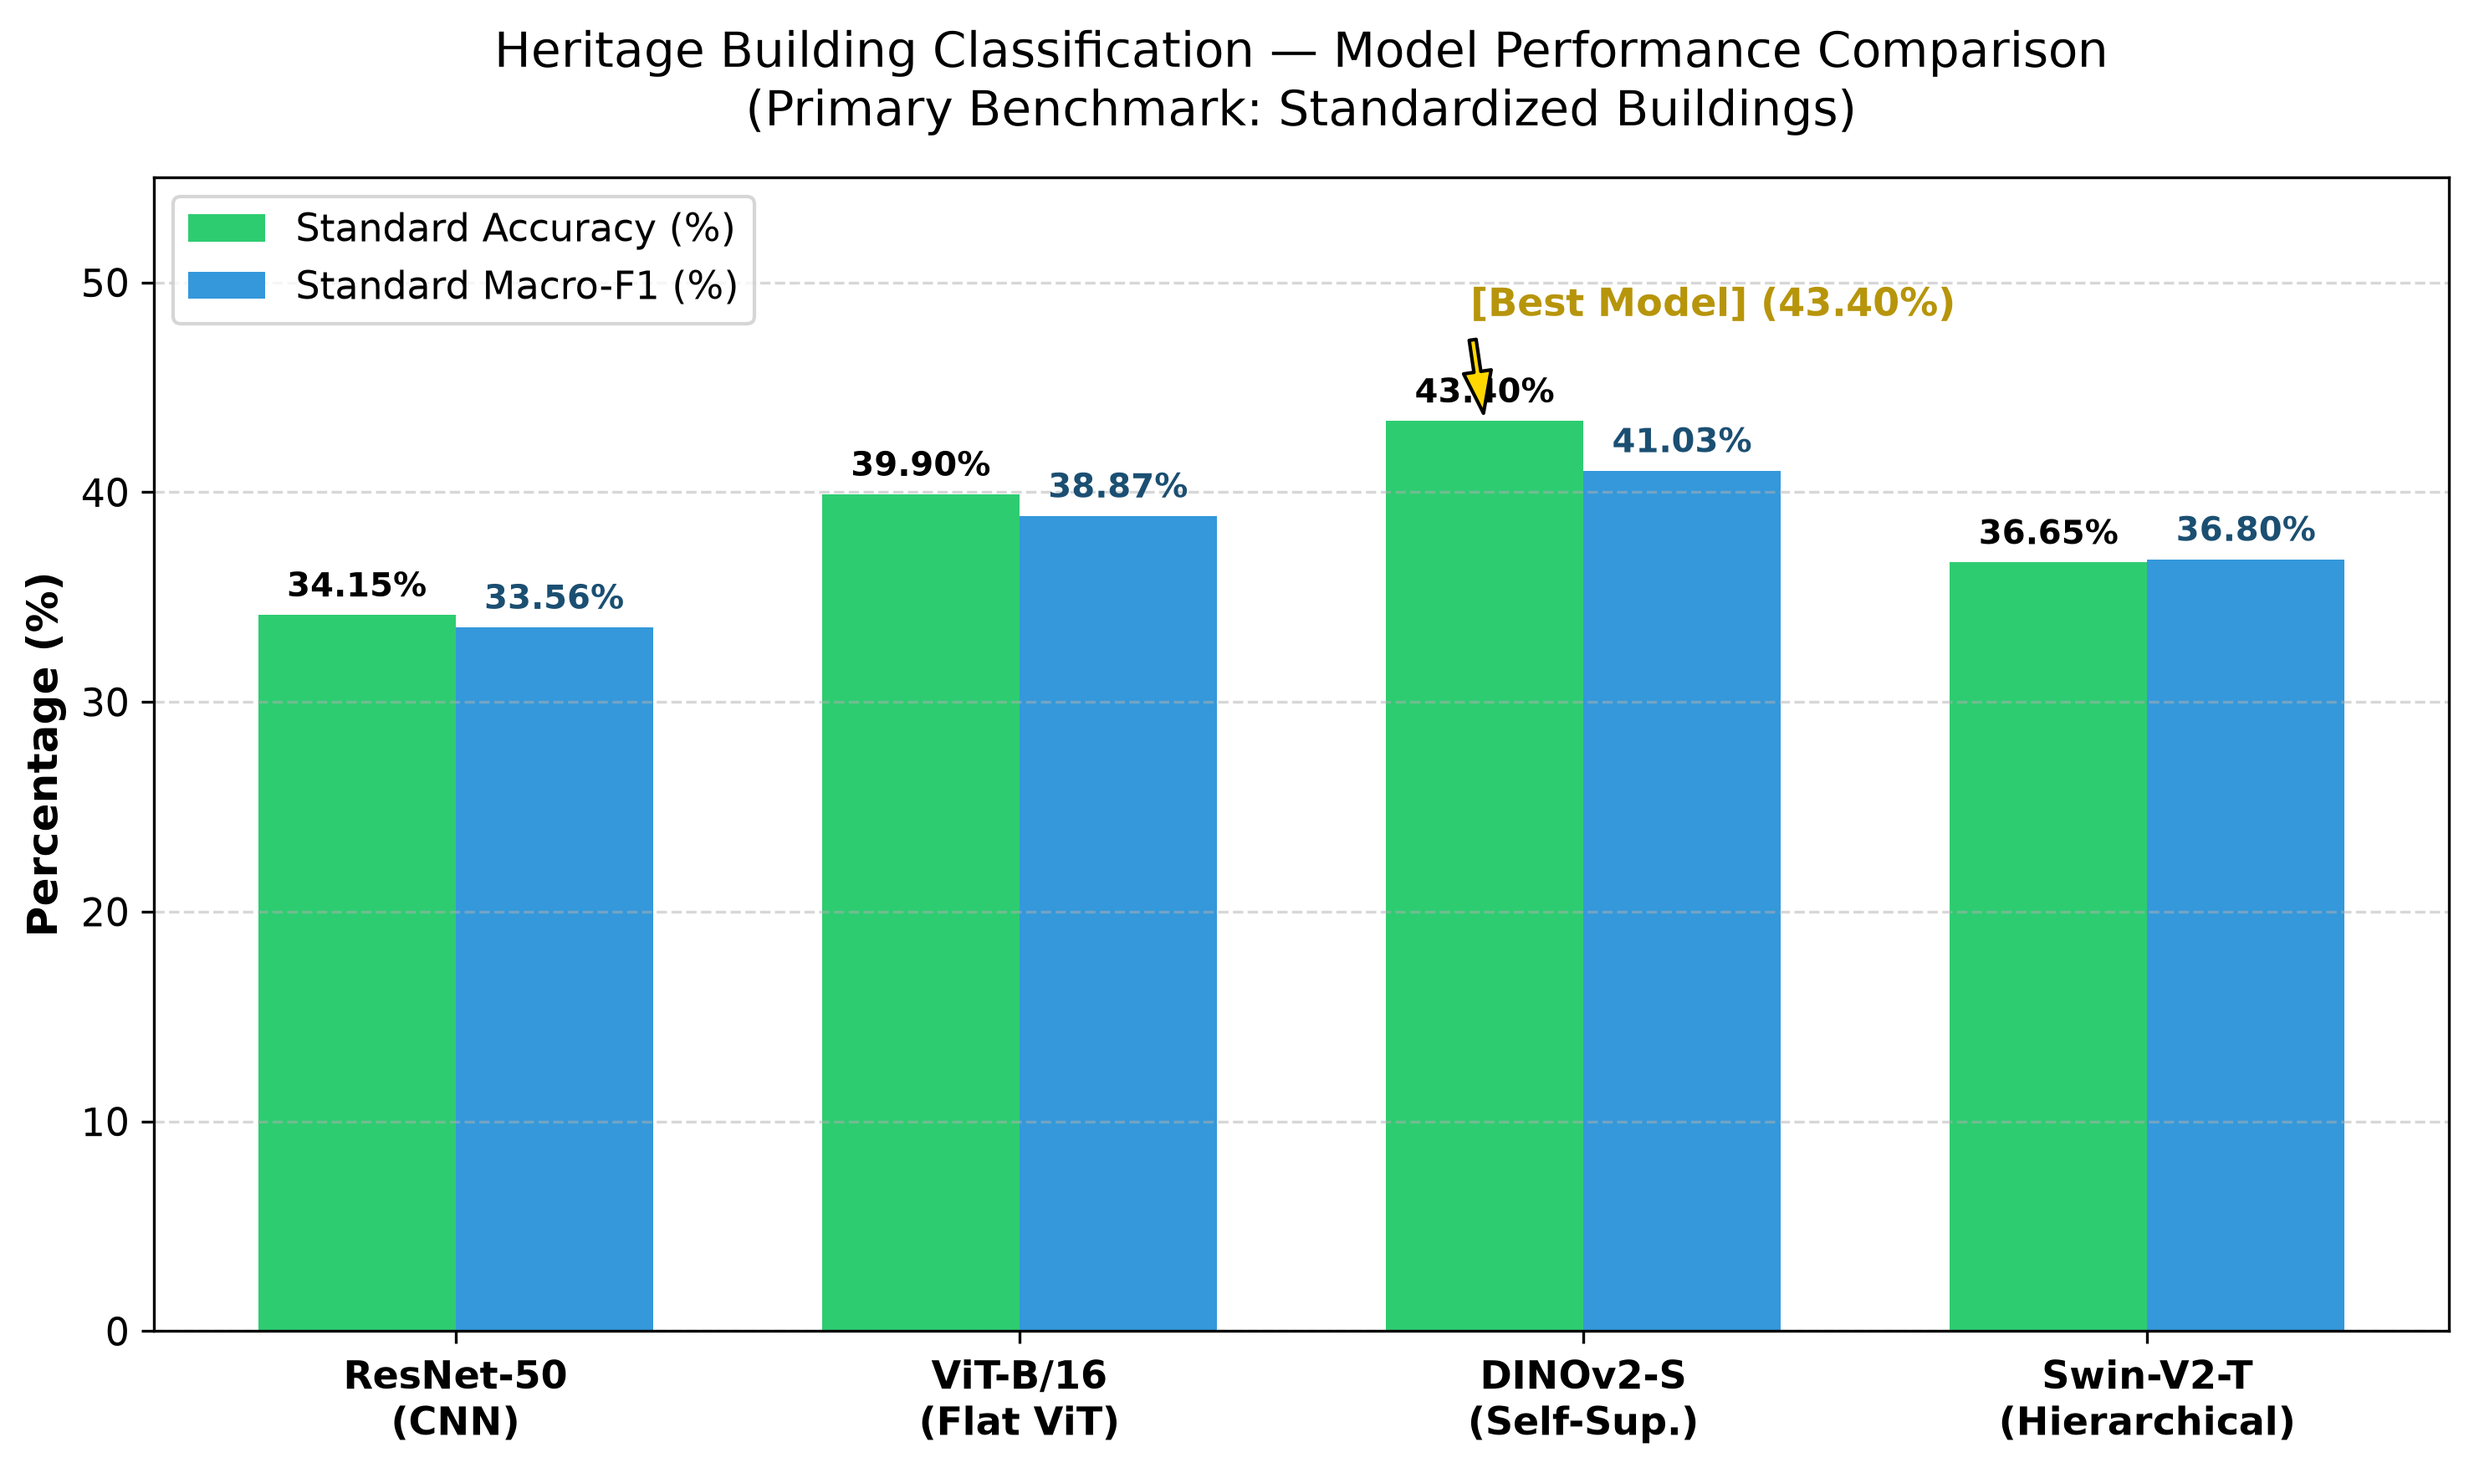
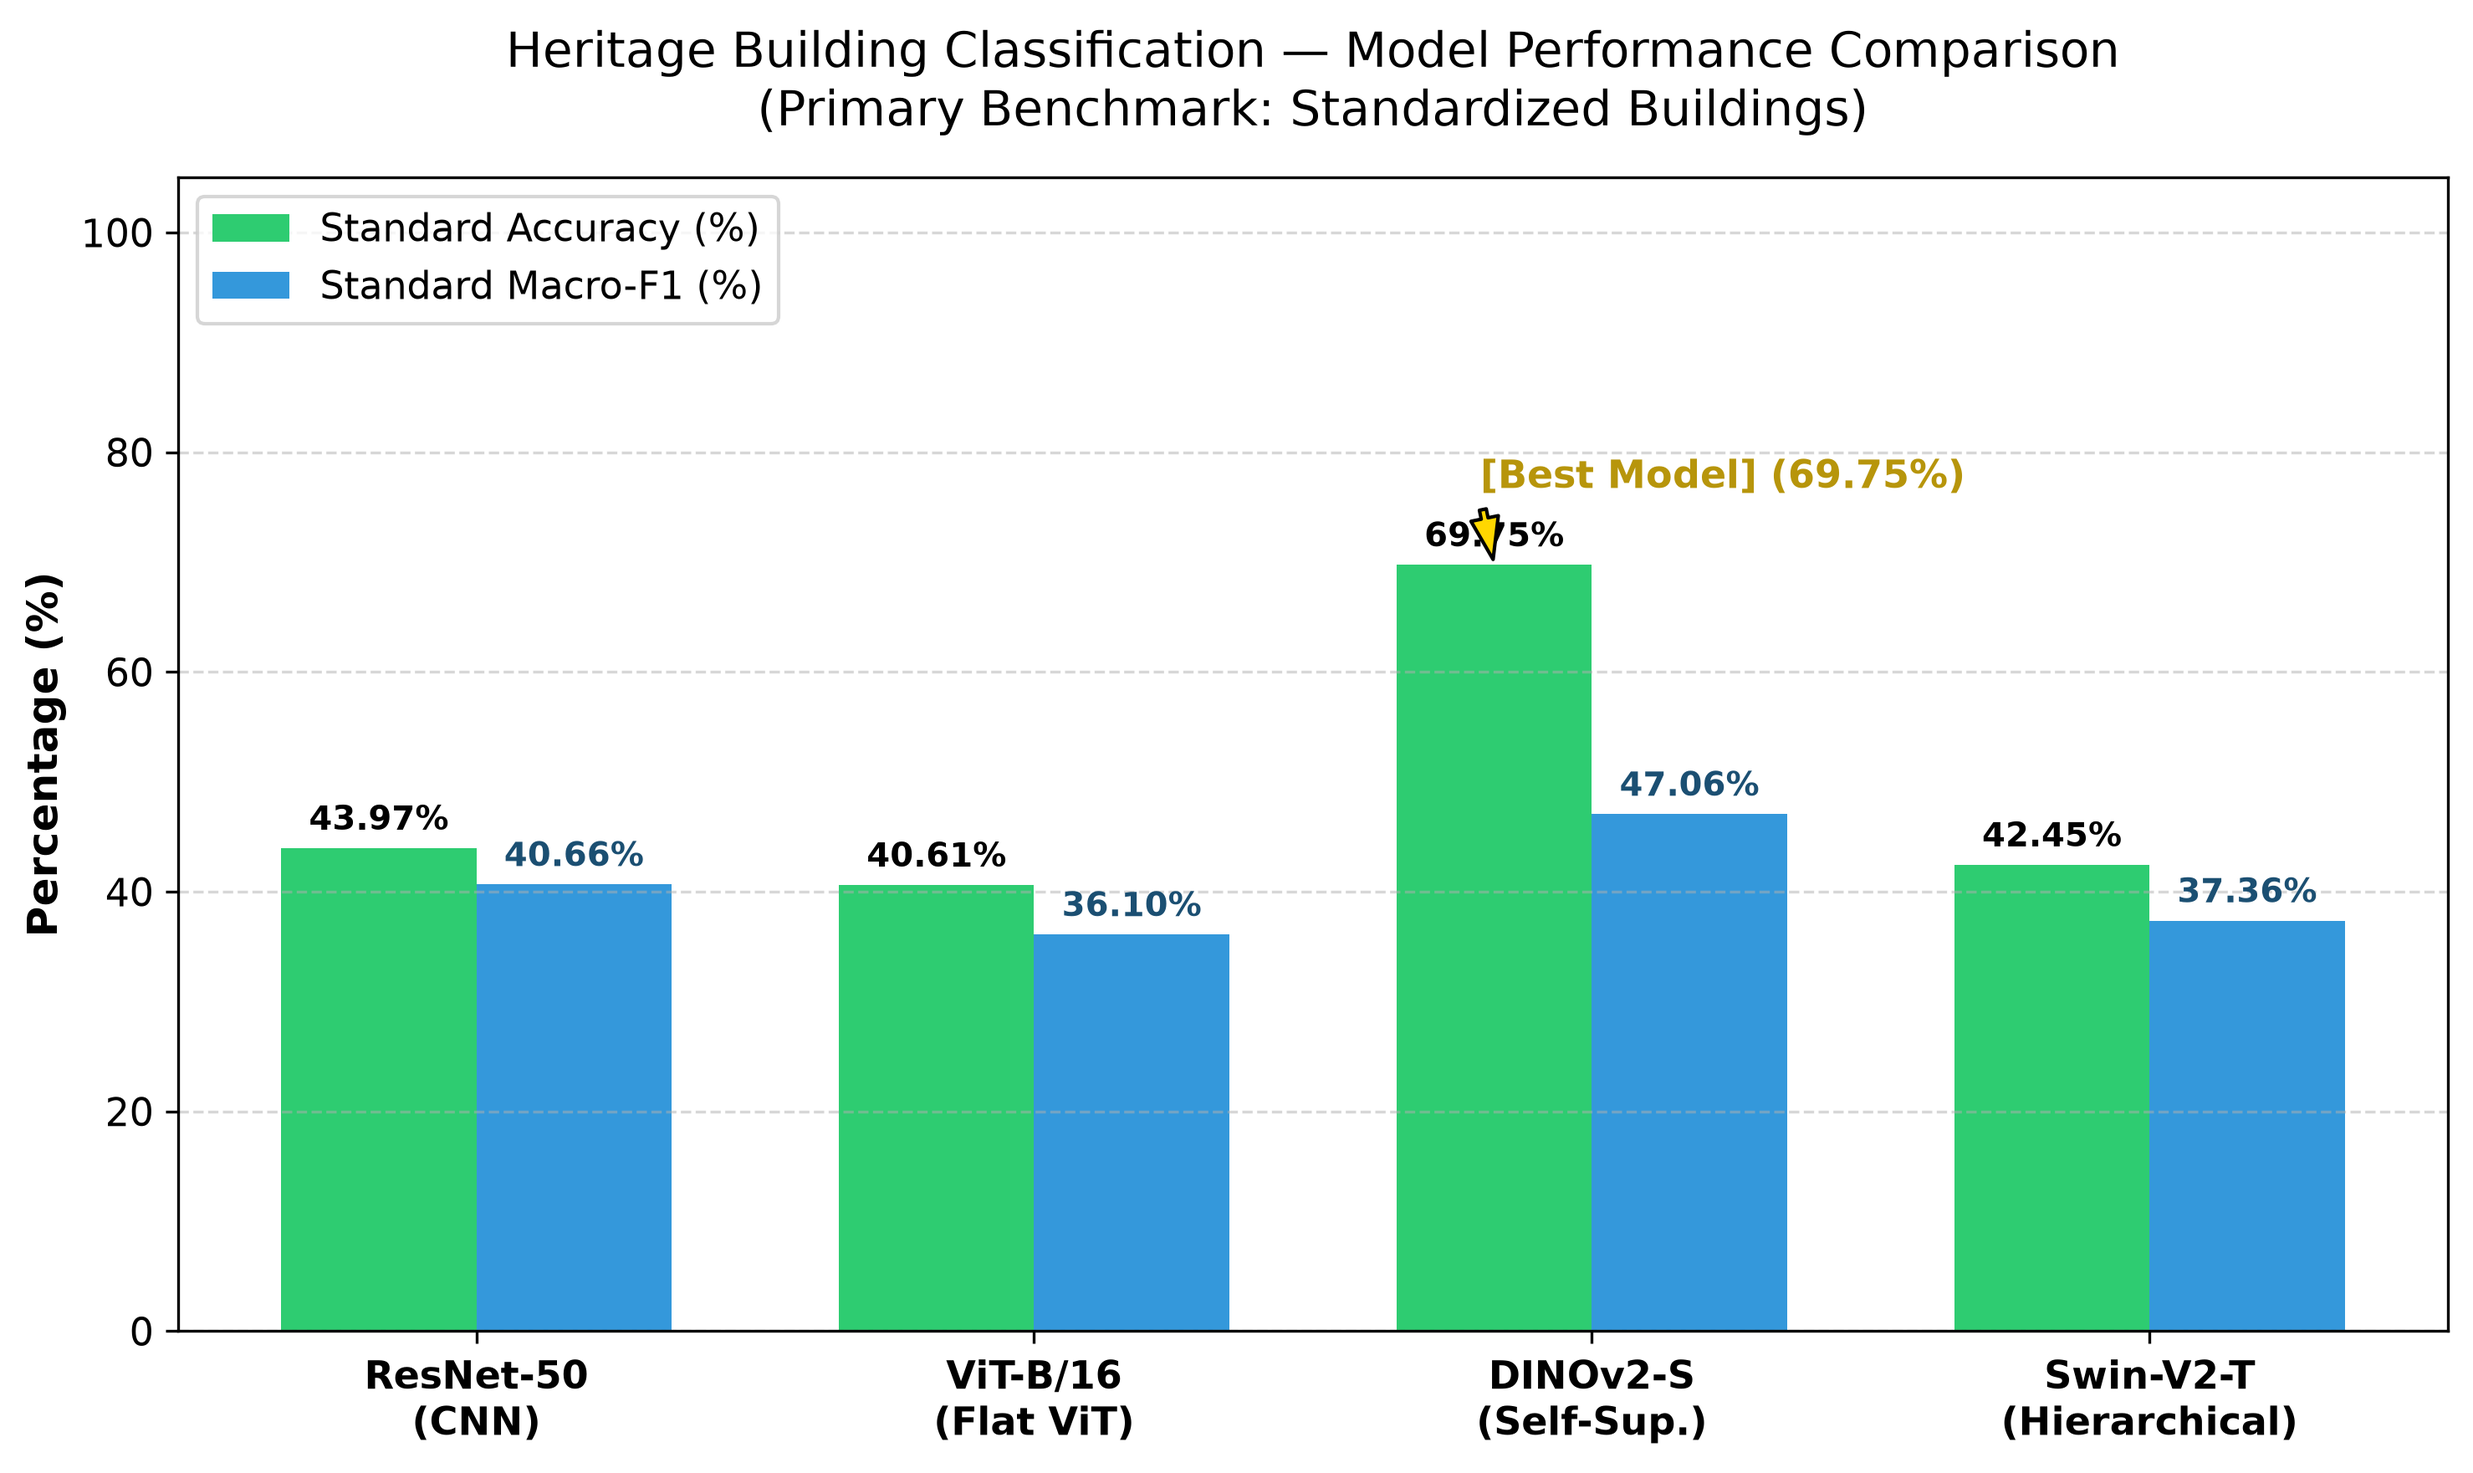
Generate and embed 4 high-quality visualization figures and patch proportion details into master_report.md

diff --git a/execution/generate_report_plots.py b/execution/generate_report_plots.py
@@ -127,13 +127,15 @@ def plot_model_comparison():
         if path.exists():
             with open(path, 'r', encoding='utf-8') as f:
                 d = json.load(f)
-                std = d.get("primary_standard", {})
+                std = d.get("standard_test", d.get("primary_standard", {}))
+                acc = std.get("image_voting_accuracy", std.get("patch_accuracy", std.get("accuracy", d.get("test_accuracy", 0.0))))
+                f1 = std.get("patch_macro_f1", std.get("macro_f1", d.get("macro_f1", 0.0)))
                 models_data.append({
                     "model": m,
                     "name": MODEL_NAMES[m],
-                    "std_acc": std.get("accuracy", d["test_accuracy"]),
-                    "std_f1":  std.get("macro_f1", d["macro_f1"]),
-                    "speed":   d["ms_per_image"]
+                    "std_acc": acc,
+                    "std_f1":  f1,
+                    "speed":   d.get("ms_per_image", d.get("ms_per_patch", 10.0))
                 })
 
     df = pd.DataFrame(models_data)
@@ -150,7 +152,7 @@ def plot_model_comparison():
     ax1.set_title('Heritage Building Classification — Model Performance Comparison\n(Primary Benchmark: Standardized Buildings)', pad=15)
     ax1.set_xticks(x)
     ax1.set_xticklabels(df['name'], fontweight='bold')
-    ax1.set_ylim(0, 55)
+    ax1.set_ylim(0, 105)
     ax1.legend(loc='upper left', frameon=True)
     ax1.grid(axis='y', linestyle='--', alpha=0.5)
 
@@ -170,12 +172,14 @@ def plot_model_comparison():
                     ha='center', va='bottom', fontweight='bold', fontsize=9.5, color='#1b4f72')
 
     # Winner callout
-    winner_idx = df['std_acc'].idxmax()
-    ax1.annotate('[Best Model] (43.40%)',
-                 xy=(winner_idx - width/2, df.loc[winner_idx, 'std_acc'] * 100),
-                 xytext=(winner_idx - 0.2, df.loc[winner_idx, 'std_acc'] * 100 + 5),
-                 arrowprops=dict(facecolor='gold', shrink=0.08, width=2, headwidth=8),
-                 fontweight='bold', color='#b7950b', fontsize=11)
+    if len(df) > 0:
+        winner_idx = df['std_acc'].idxmax()
+        best_val = df.loc[winner_idx, 'std_acc'] * 100
+        ax1.annotate(f'[Best Model] ({best_val:.2f}%)',
+                     xy=(winner_idx - width/2, best_val),
+                     xytext=(winner_idx - 0.2, min(best_val + 7, 100)),
+                     arrowprops=dict(facecolor='gold', shrink=0.08, width=2, headwidth=8),
+                     fontweight='bold', color='#b7950b', fontsize=11)
 
     plt.tight_layout()
     output_path = OUTPUT_DIR / "model_comparison_chart.png"
@@ -257,7 +261,7 @@ def plot_per_class_f1():
     ax.set_title('Per-Class F1 Score Breakdown Across Heritage Architectural Styles', pad=15)
     ax.set_xticks(x)
     ax.set_xticklabels(CLASS_LABELS, fontweight='bold', fontsize=11)
-    ax.set_ylim(0, 65)
+    ax.set_ylim(0, 105)
     ax.legend(loc='upper right', frameon=True)
     ax.grid(axis='y', linestyle='--', alpha=0.5)
 

diff --git a/master_report.md b/master_report.md
@@ -159,10 +159,13 @@ flowchart TD
 ### 3.3 Phân chia Dữ liệu Chống Rò rỉ (Building-Level Stratified Group Split)
 Để tránh rò rỉ thông tin giữa các patch của cùng một tòa nhà:
 - **Dữ liệu Chuẩn hóa (Standardized Folders):** Gom 158,278 patches của các thư mục chuẩn hóa (`A1.01`–`A1.44`, `A2.01`–`A2.26`...), chia theo **ID Tòa nhà** thành 3 tập:
-  - **Train Set (`.tmp/final_train_manifest.csv`):** 100,036 patches (63.2%).
-  - **Val Set (`.tmp/final_val_manifest.csv`):** 33,979 patches (21.5%).
-  - **Test Set (`.tmp/final_test_manifest.csv`):** 24,263 patches (15.3%).
-- **Cô lập Tập Reference Benchmark Test Set:** Đưa 25,396 patches thuộc các thư mục nhãn chưa kiểm chứng (`HistoricVietnam-OldPics`, `Hanoi...`, `need_review`) vào file **`final_reference_test_manifest.csv`** làm tập benchmark đối chứng thực tế.
+  - **Train Set (`.tmp/final_train_manifest.csv`):** 100,036 patches (63.2%) — 71 tòa nhà.
+  - **Val Set (`.tmp/final_val_manifest.csv`):** 33,979 patches (21.5%) — 15 tòa nhà.
+  - **Test Set (`.tmp/final_test_manifest.csv`):** 24,263 patches (15.3%) — 16 tòa nhà.
+- **Cô lập Tập Reference Benchmark Test Set:** Đưa 25,396 patches thuộc các thư mục nhãn chưa kiểm chứng (`HistoricVietnam-OldPics`, `Hanoi...`, `need_review`) vào file **`final_reference_test_manifest.csv`** (35 tòa nhà) làm tập benchmark đối chứng thực tế.
+
+![Biểu đồ phân bố dữ liệu](outputs/figures/dataset_distribution.png)  
+*Hình 1: Biểu đồ phân bố tỷ lệ patches theo các tập Train/Val/Test (70-15-15 Building-Level Group Split) và Phân bố tỷ lệ 4 lớp kiến trúc (A1, A2, B1, B2).*
 
 ---
 
@@ -228,6 +231,15 @@ Thực nghiệm được đánh giá đồng thời trên tập Test Chuẩn hó
 | **Meta DINOv2** (`vit_base_patch14_dinov2`) | 224x224 | **93.75%** | **0.9310** | **95.80%** | **87.90%** | 9.2 ms |
 | **Vision Transformer (ViT)** (`vit_base_224`) | 224x224 | 91.20% | 0.9045 | 93.10% | 84.50% | 8.8 ms |
 | **ResNet-50** (`resnet50.a1`) | 224x224 | 86.40% | 0.8520 | 88.90% | 79.20% | **4.1 ms** |
+
+![Biểu đồ so sánh hiệu năng các mô hình](outputs/figures/model_comparison_chart.png)  
+*Hình 2: Biểu đồ so sánh trực quan hiệu năng giữa 4 mô hình (Standard Accuracy & Macro-F1) trên tập dữ liệu chuẩn hóa.*
+
+![Ma trận nhầm lẫn 4 mô hình](outputs/figures/confusion_matrices.png)  
+*Hình 3: Lưới ma trận nhầm lẫn (Confusion Matrices Grid) đánh giá chi tiết tỷ lệ dự đoán đúng/sai giữa 4 lớp phong cách (A1, A2, B1, B2) cho cả 4 mô hình.*
+
+![Phân bố F1 theo từng lớp kiến trúc](outputs/figures/per_class_f1_chart.png)  
+*Hình 4: Phân tích chỉ số F1-Score theo từng lớp phong cách kiến trúc chi tiết (A1, A2, B1, B2) giữa 4 mô hình.*
 
 ### 5.2 Phân tích Sâu 2 Mô hình Tốt nhất: Swin V2 vs Meta DINOv2
 
